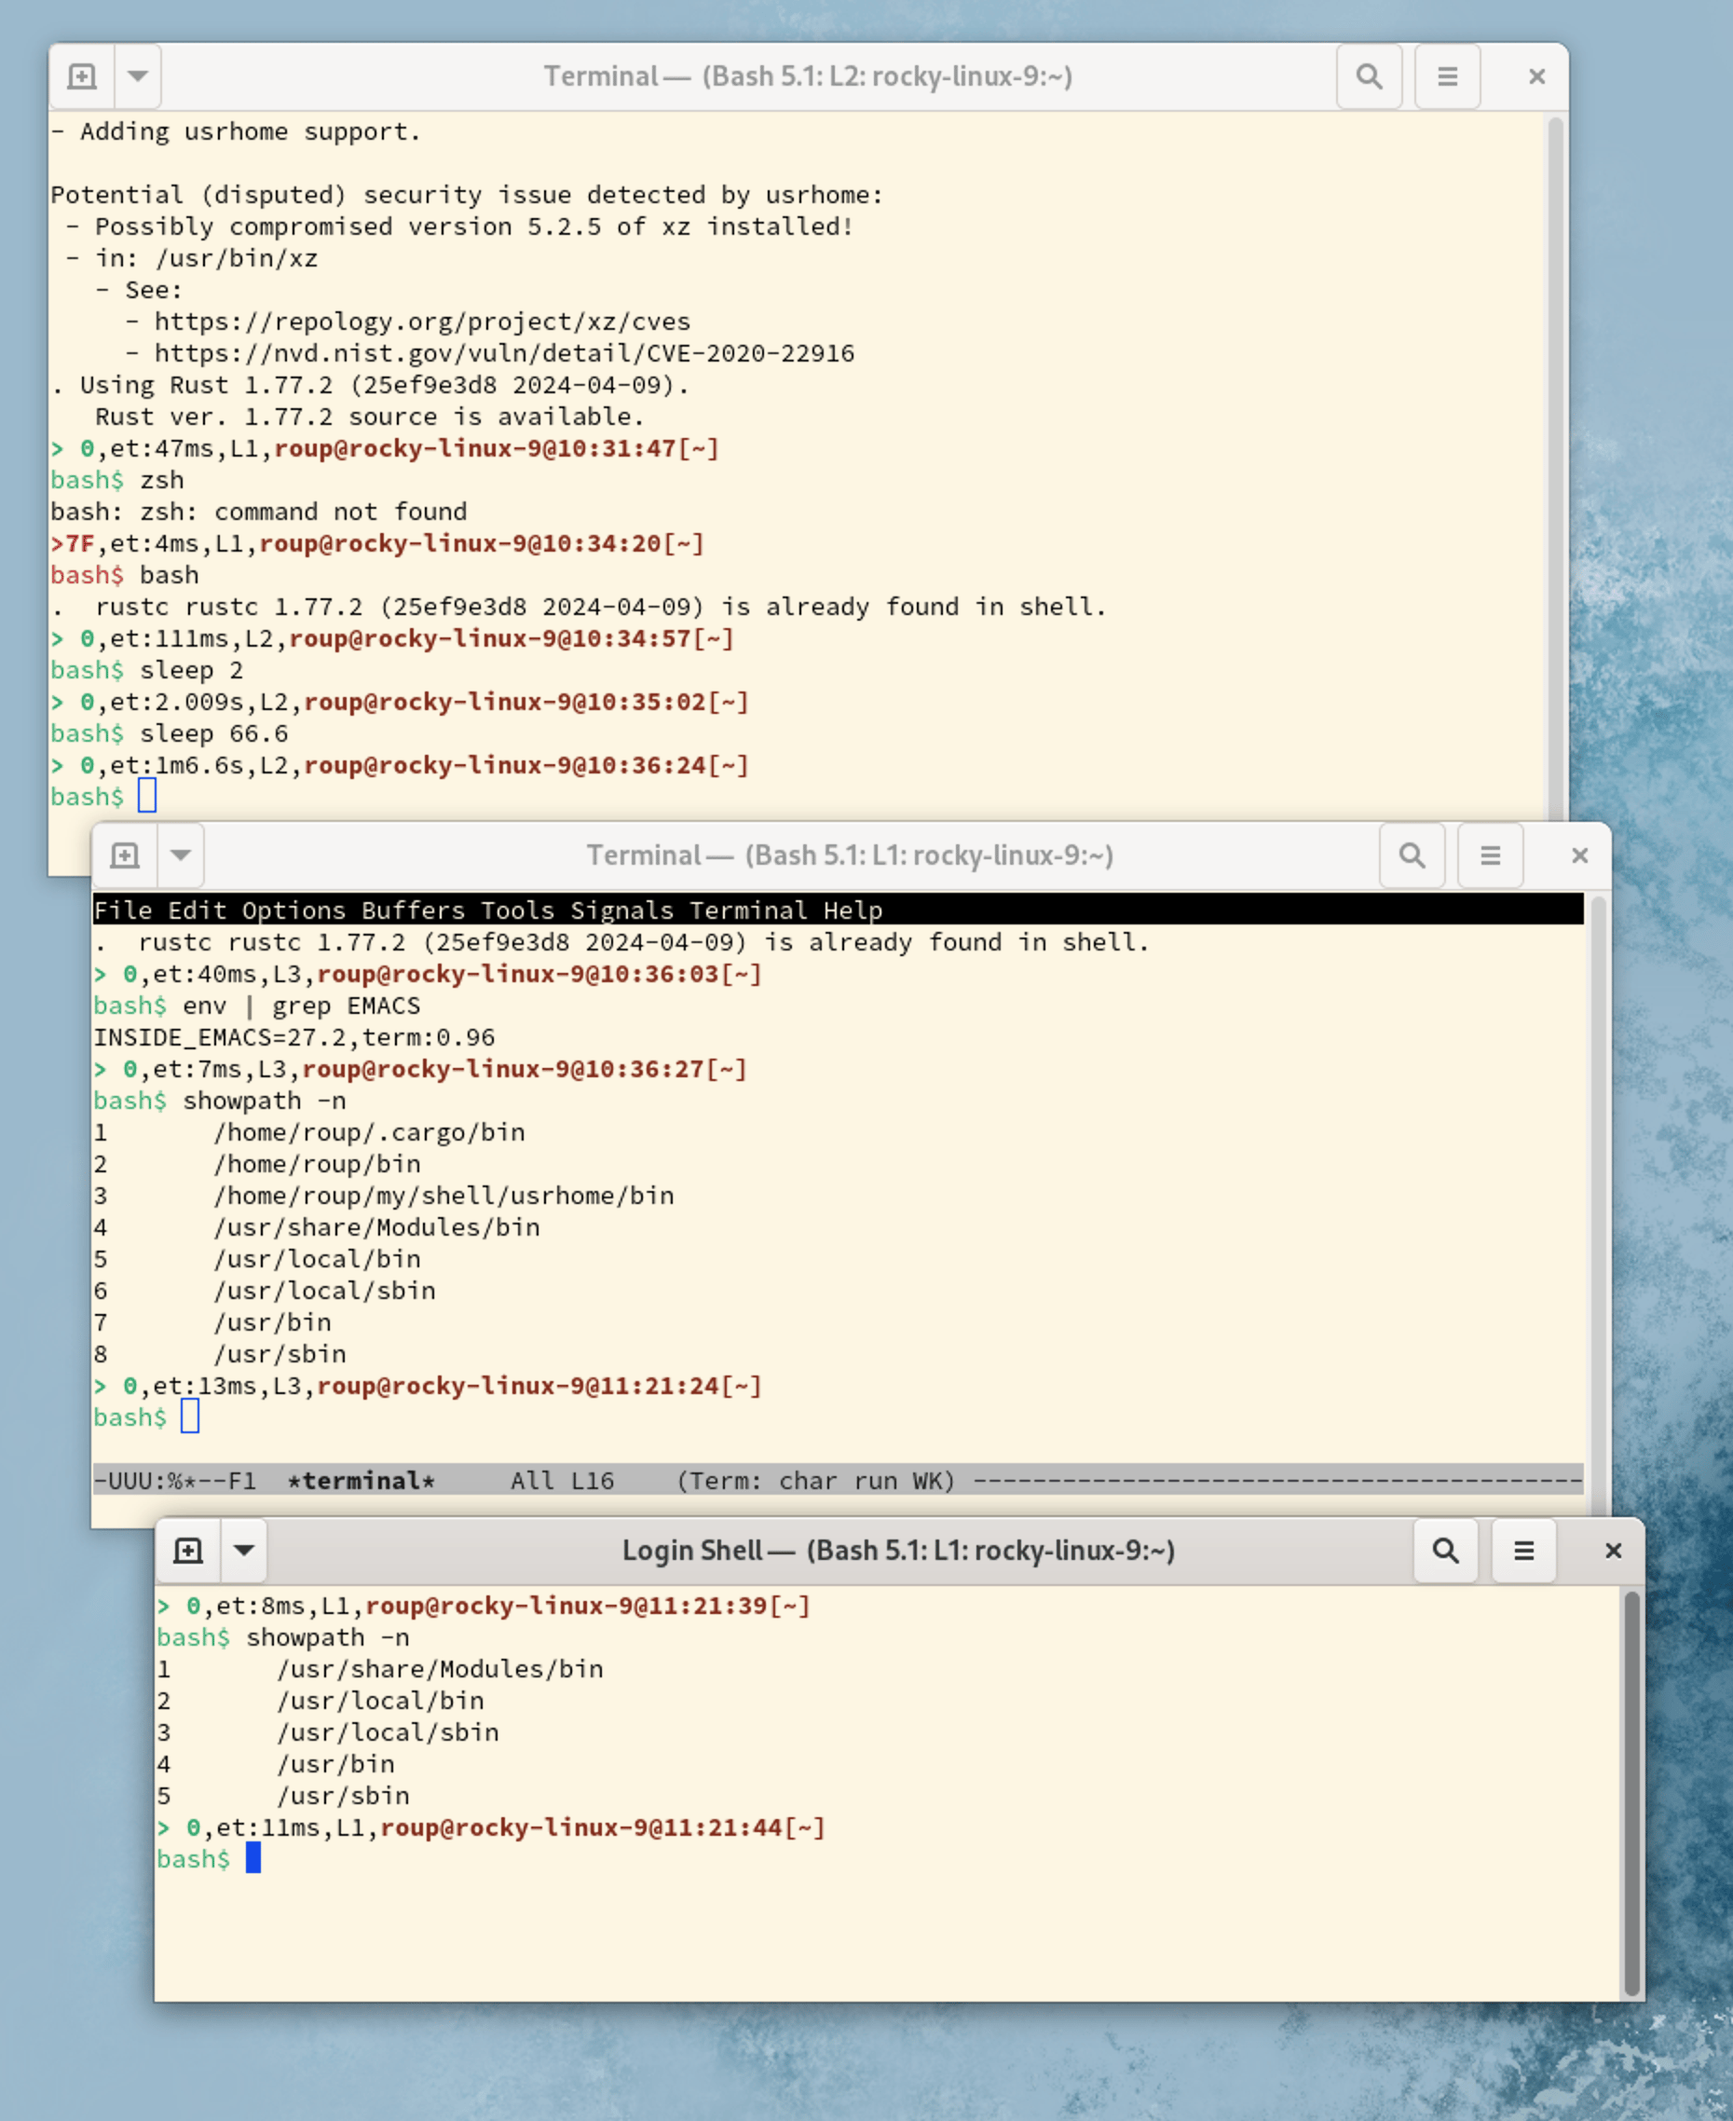
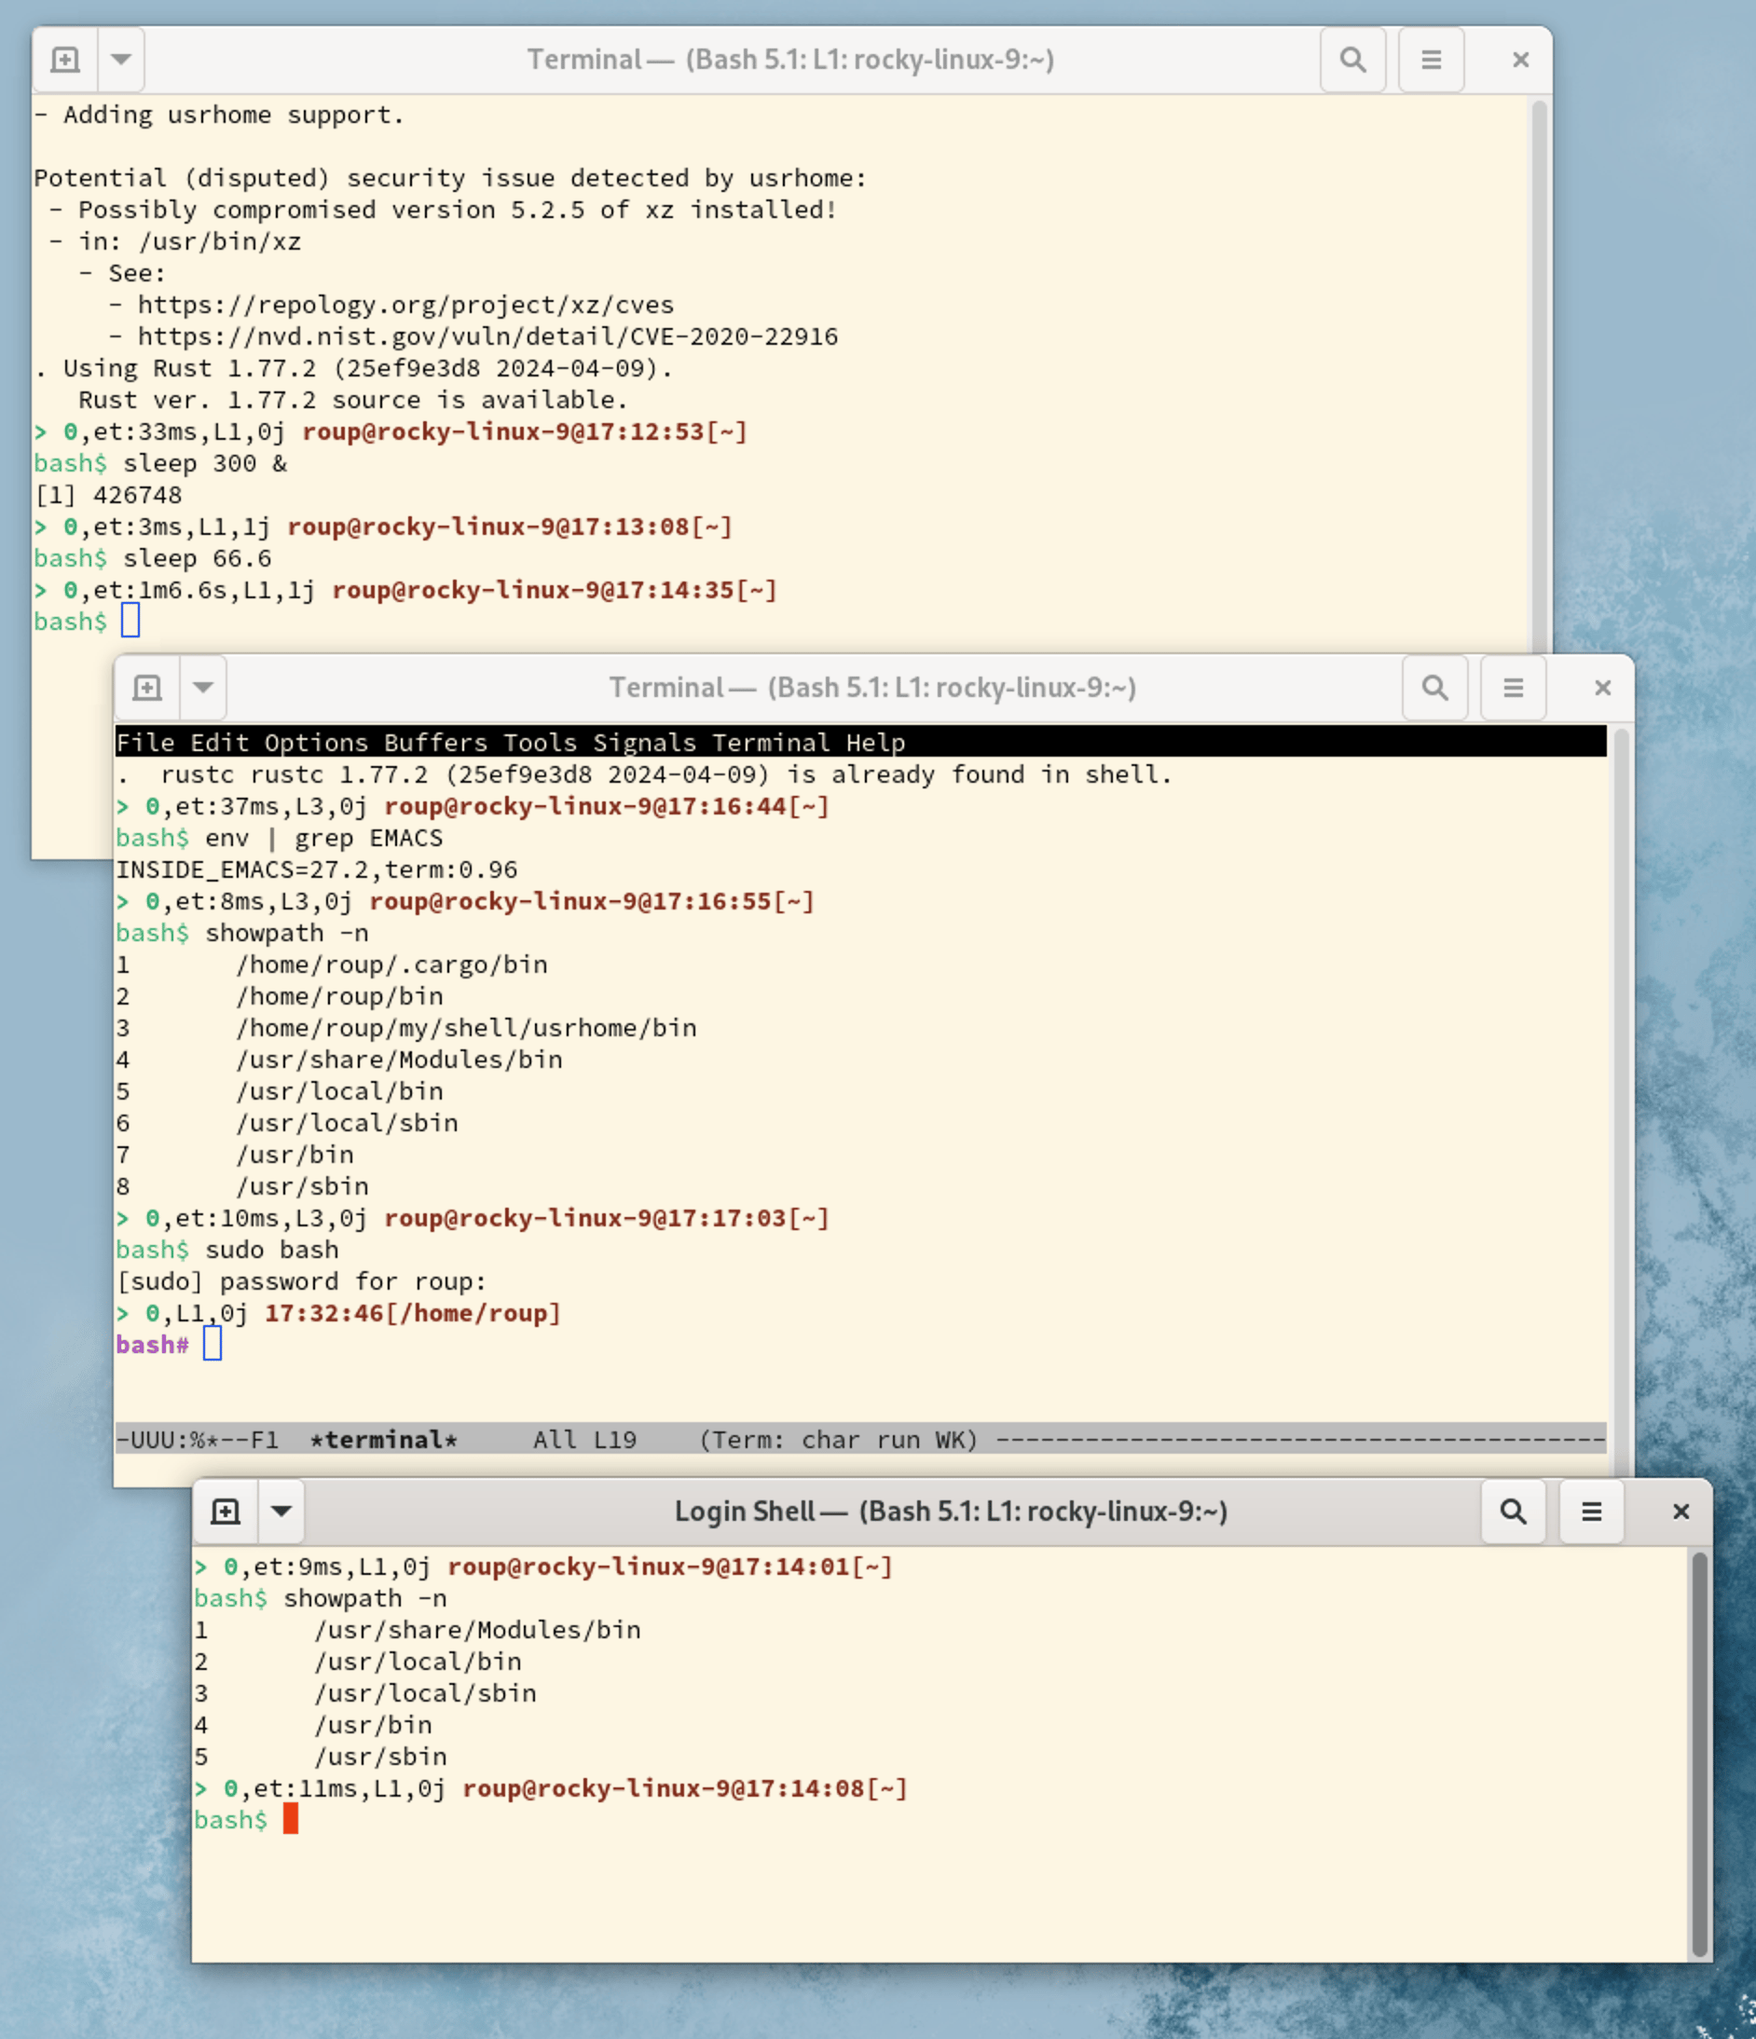
Show updated Bash prompt on Rocky Linux 9 with its features

Changed region(s): [[0.0, 0.0, 1.0, 1.0]]

diff --git a/readme.rst b/readme.rst
@@ -167,18 +167,37 @@ started two terminal instances: the first one launches the default Bash,
 instrumented with the exact same USRHOME settings than my macOS one.
 On Linux, Homebrew is not used.  But it also activates Rust.
 
-USRHOME does some check for vulnerabilities and it detects one in Rocky Linux
-9.3 and reports it. Then I use showpath, a USRHOME provided command, to print
-the path on numbered lines; it has 8 entries in the PATH and nothing is
-duplicated.
+USRHOME does some check for vulnerabilities and it detects a possible one in
+Rocky Linux 9.3 and reports it when it is executing as the first level.
+The prompt prints:
+
+- the exit code of the last command,
+- the elapsed time (duration) of the completed command,
+- the shell nested level,
+- the number of background jobs running,
+- the user name @ hostname @ current time in 24-hour format
+- the current directory in side square brackets.
+
+The second non-login shell is executing a terminal-based Emacs process, which
+runs a terminal mode shell.  The USRHOME shell is Emacs-aware.
+The bash prompt is not affected when running inside Emacs.
+It can display the same information.
+You can see the PATH components shown by the showpath command.
 
 USRHOME will sanitize and report sloppy PATH such as PATH with duplicate
 entries and empty entries. Here everything is fine.
 
-The second terminal is configured to launch Bash in login mode. Here, USRHOME
+When the shell is placed in sudo mode, the prompt changes color and shows a
+``#`` instead of a ``$`` after the word ``bash``.
+
+The third terminal is configured to launch Bash in login mode. Here, USRHOME
 does not add anything to the PATH; the Bash login shells are unmodified and do
-not have access for any extra tools.  They do not perform USRHOME simple (and
-quite limited) vulnerability check.
+not have access for any extra tools, therefore the PATH is shorter.
+These shells do not perform USRHOME simple (and quite limited) vulnerability
+check.
+
+Also note that, to help distinguish the login shell, I set the login shell
+prompt to red and the color of the non-login prompt to blue.
 
 .. figure:: res/RockyLinux-shells.png
 
@@ -2038,7 +2057,7 @@ environment, which they select by checking the host name and other values.
 
 This way, I can **centralize the shell setting of all computers or VMs** I use
 inside **a single repository** that I clone inside the usrcfg directory of these
-computers and VMs.  I can design the logic once, specialize it for varius
+computers and VMs.  I can design the logic once, specialize it for various
 environments and distribute it through the VCS.
 
 Here's a Kali Linux terminal with the Z shell using USRHOME selecting the
